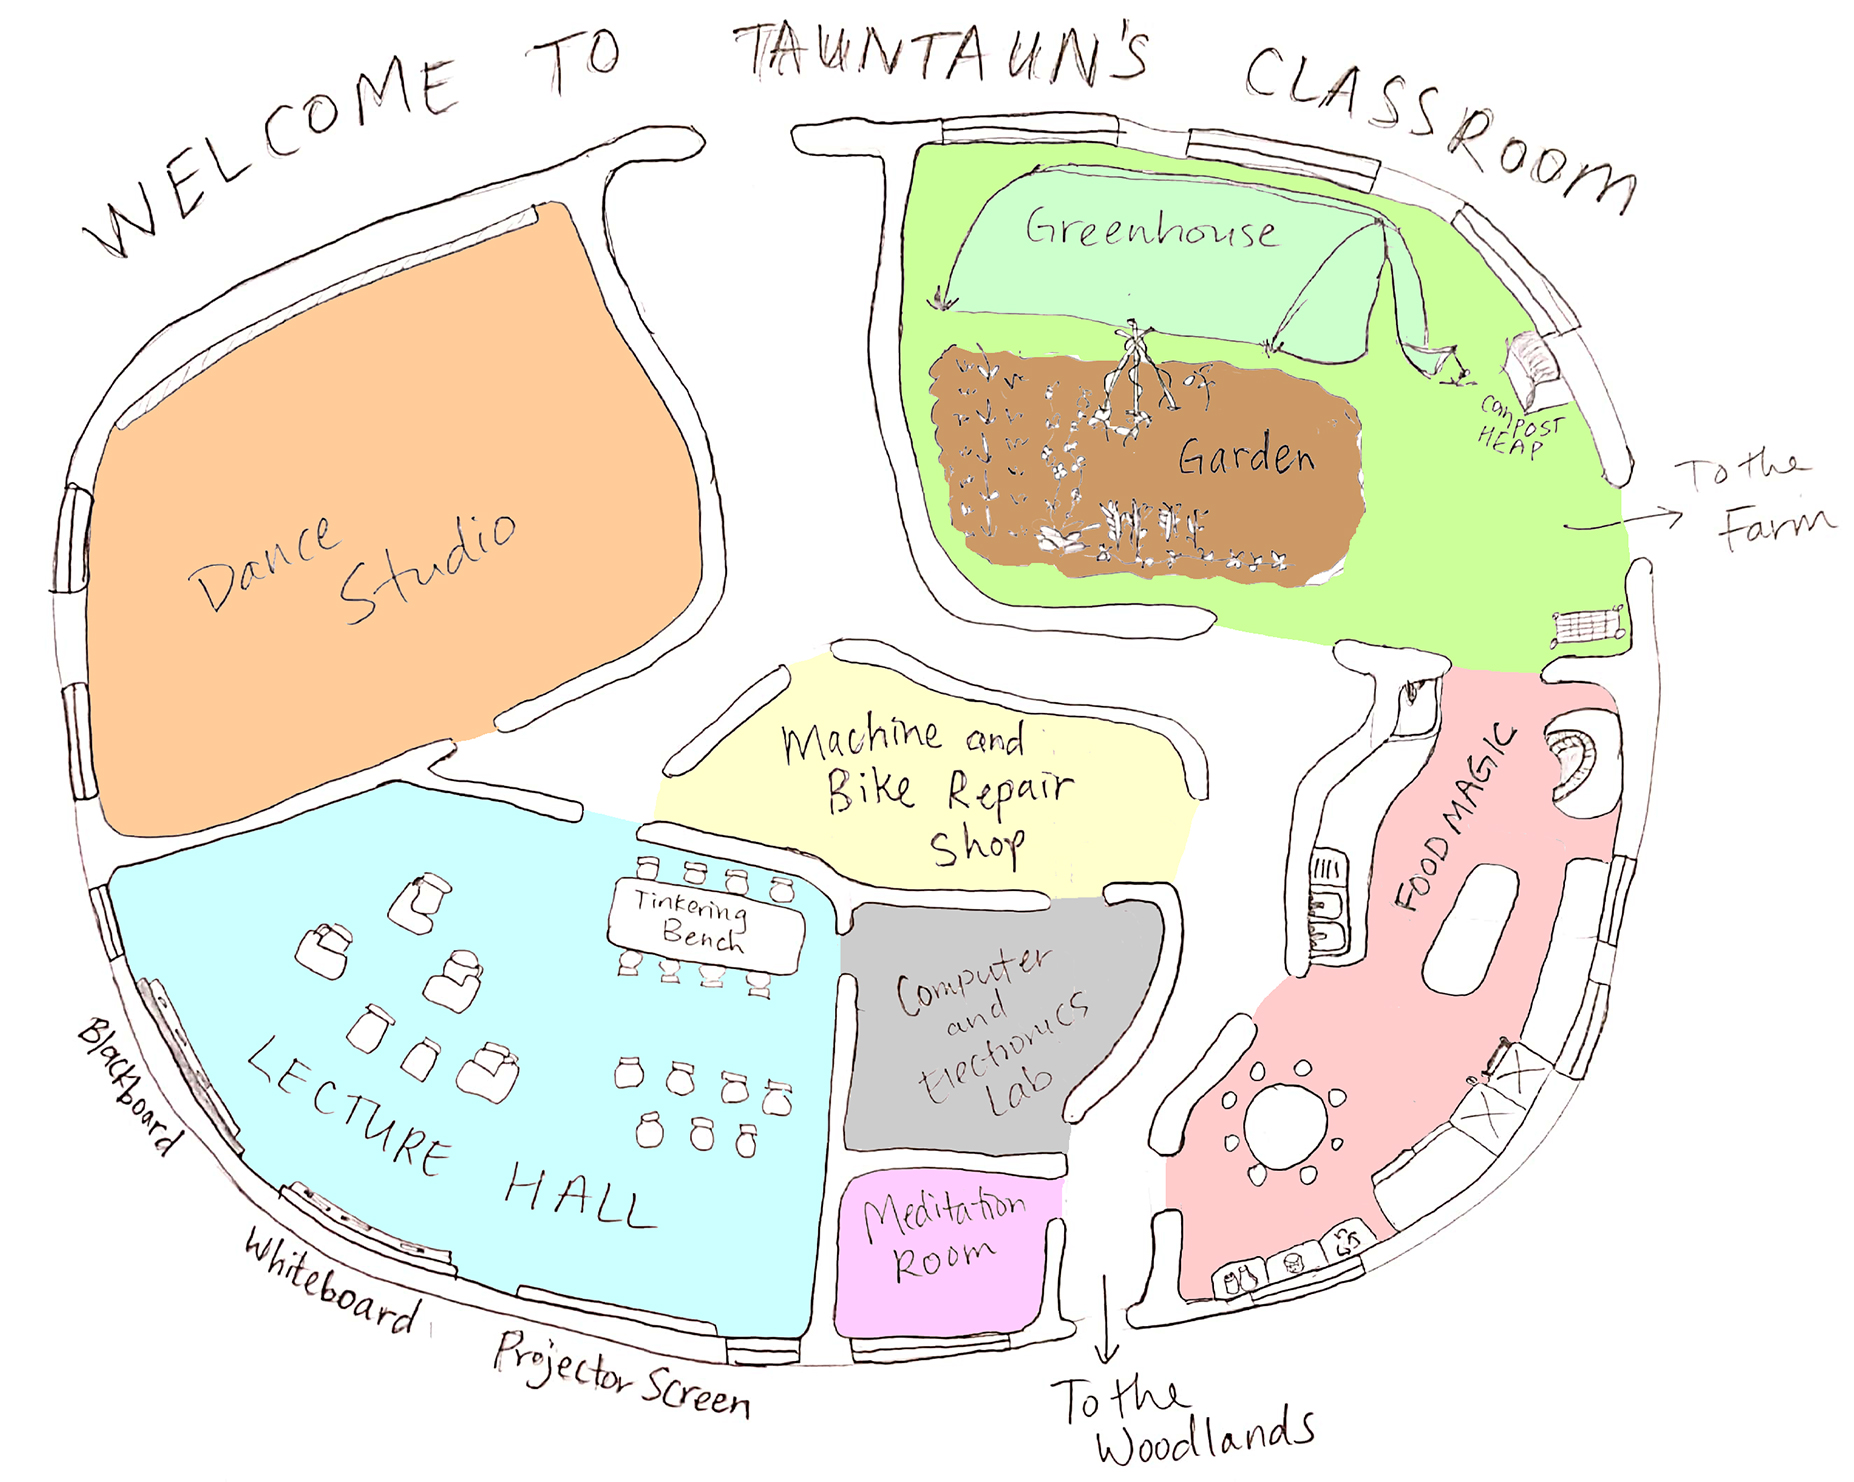
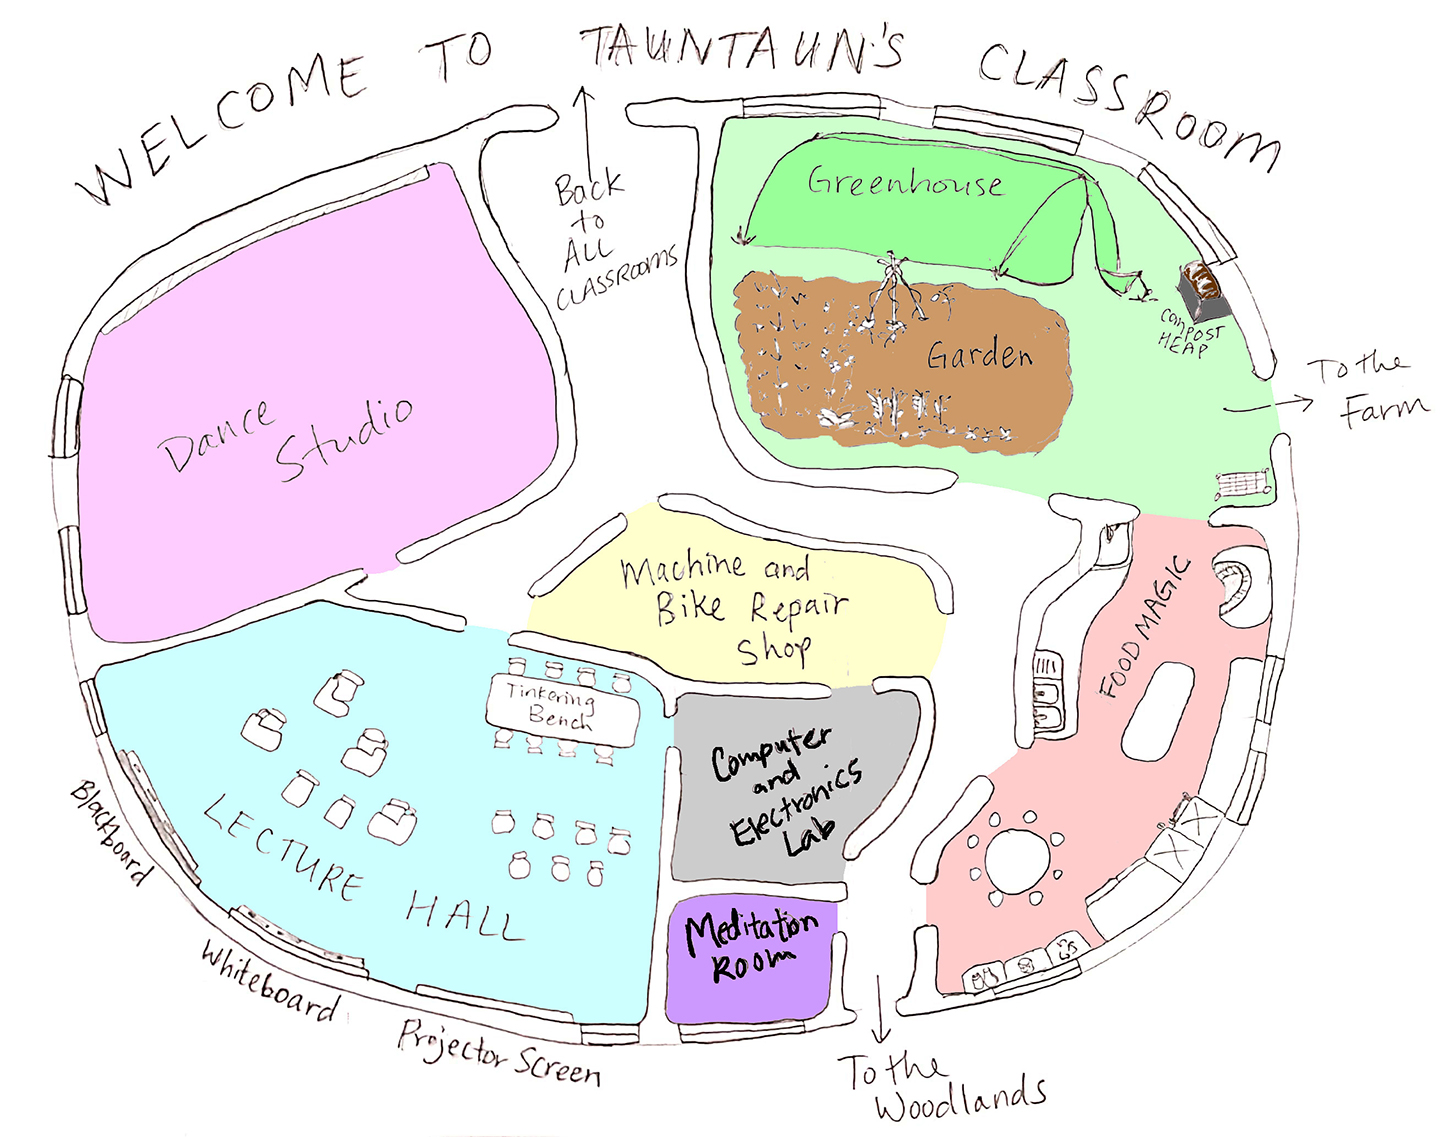
added tauntaun's classroom

diff --git a/Classroom_Tauntaun.html b/Classroom_Tauntaun.html
@@ -1,0 +1,19 @@
+<html>
+
+<head>
+<title>All Classrooms: Virtual Camp 2020</title>
+</head>
+
+<!-- Image Map Generated by http://www.image-map.net/ -->
+<img src="Classroom_Tauntaun_map.jpg" usemap="#image-map">
+
+<map name="image-map">
+    <area target="" alt="Tauntaun's Dance Studio" title="Tauntaun's Dance Studio" href="https://meet.jit.si/AICL2020VirtualCampTauntaunDanceStudio" coords="452,160,487,255,557,364,559,456,522,494,394,559,364,565,250,606,197,628,141,639,105,638,87,610,78,523,77,448,85,382,101,327,215,251" shape="poly">
+    <area target="" alt="Tauntaun's Lecture Hall" title="Tauntaun's Lecture Hall" href="https://meet.jit.si/AICL2020VirtualCampTauntaunLectureHall" coords="322,598,192,640,171,752,207,834,341,915,393,935,548,961,653,908,660,824,492,778" shape="poly">
+    <area target="" alt="Tauntaun's Blackboard" title="Tauntaun's Blackboard" href="https://meet.jit.si/AICL2020VirtualCampTauntaunBlackboard" coords="134,722,38,773,128,933,220,880" shape="poly">
+    <area target="" alt="Tauntaun's Whiteboard" title="Tauntaun's Whiteboard" href="https://meet.jit.si/AICL2020VirtualCampTauntaunWhiteboard" coords="232,889,180,961,342,1044,390,961" shape="poly">
+    <area target="" alt="Tauntaun's Projector Screen" title="Tauntaun's Projector Screen" href="https://meet.jit.si/AICL2020VirtualCampTauntaunProjectorScreen" coords="410,968,371,1064,612,1112,597,989" shape="poly">
+    <area target="" alt="Tauntaun's Tinkering Bench" title="Tauntaun's Tinkering Bench" href="https://meet.jit.si/AICL2020VirtualCampTauntaunTinkeringBench" coords="483,643,477,751,641,770,646,674" shape="poly">
+    <area target="" alt="Tauntaun's Meditation Room" title="Tauntaun's Meditation Room" href="https://meet.jit.si/AICL2020VirtualCampTauntaunMeditationRoom" coords="676,896,659,1026,836,1017,835,896" shape="poly">
+    <area target="" alt="Back to All Classrooms" title="Back to All Classrooms" href="https://aicl-2020.github.io/Virtual-Camp/All_classrooms_map" coords="546,169,551,307,561,320,682,265,681,236,625,150,580,85" shape="poly">
+</map>
